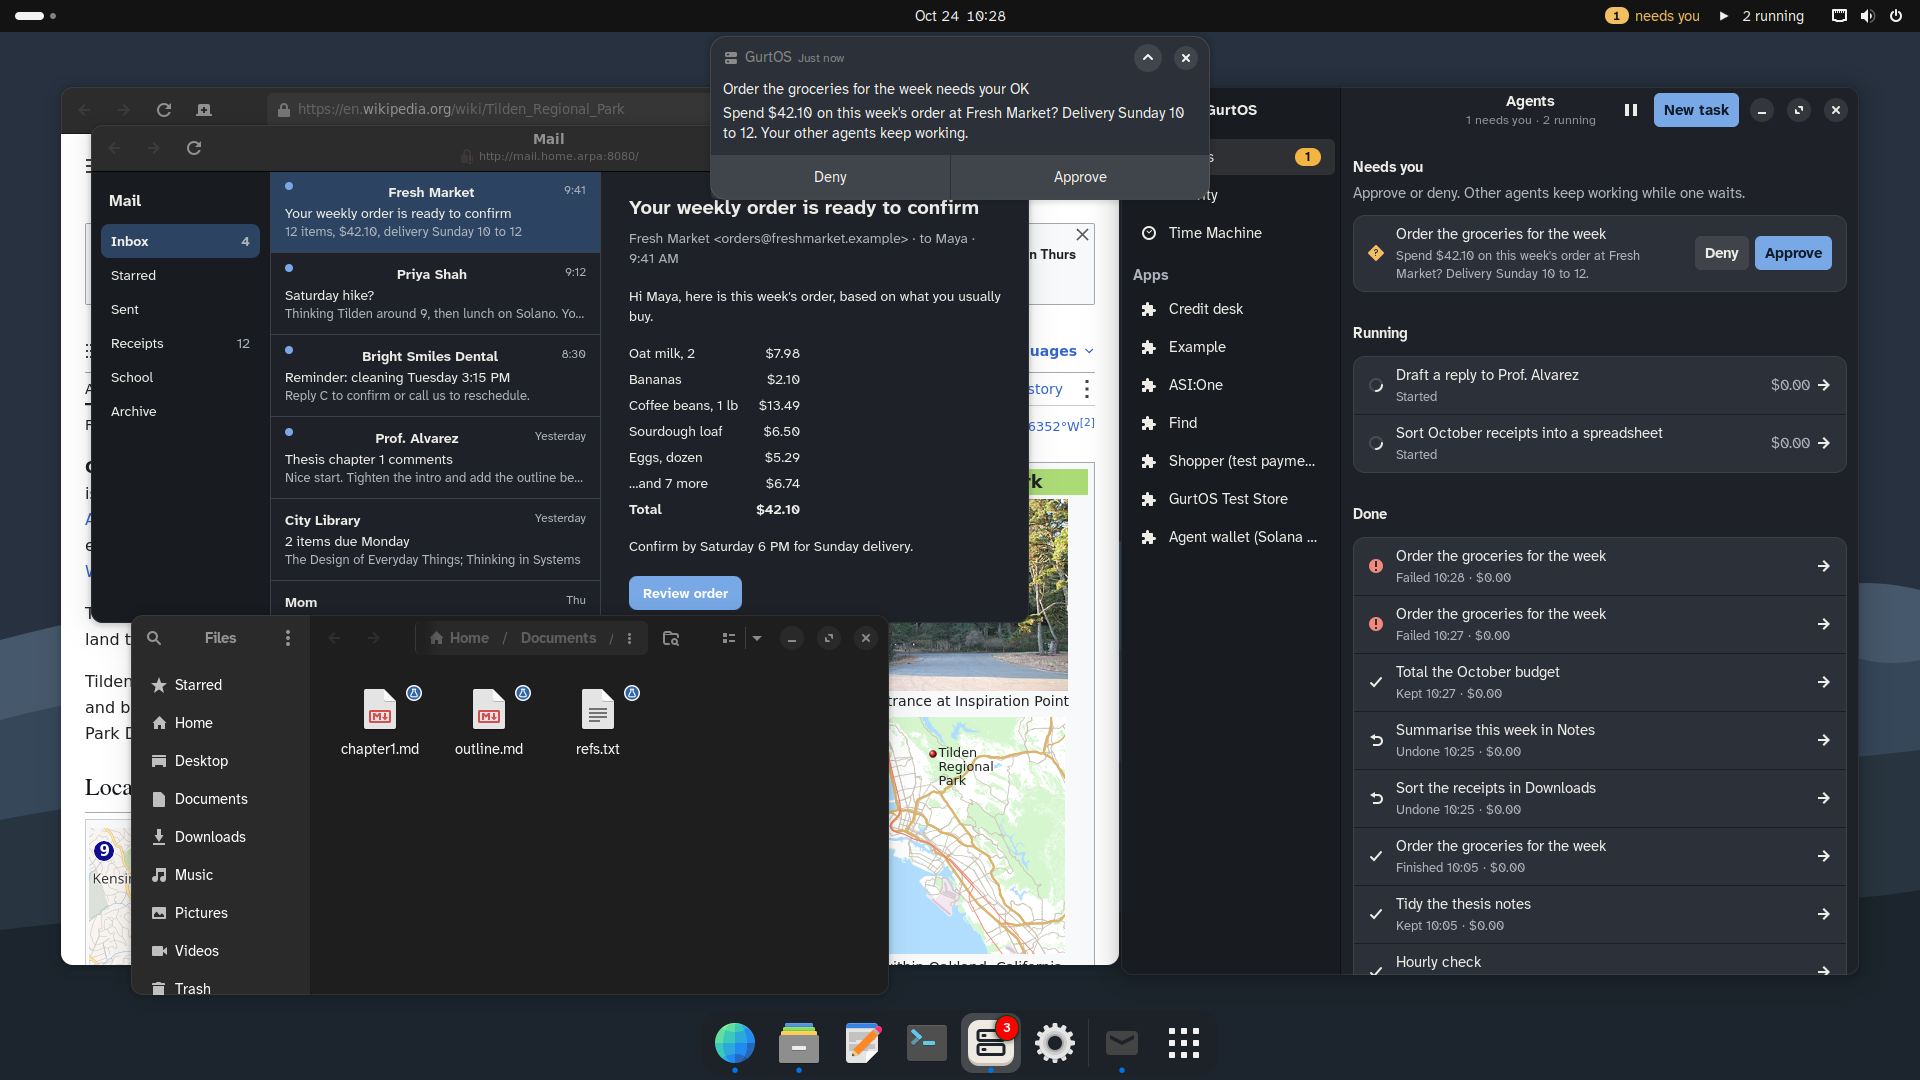
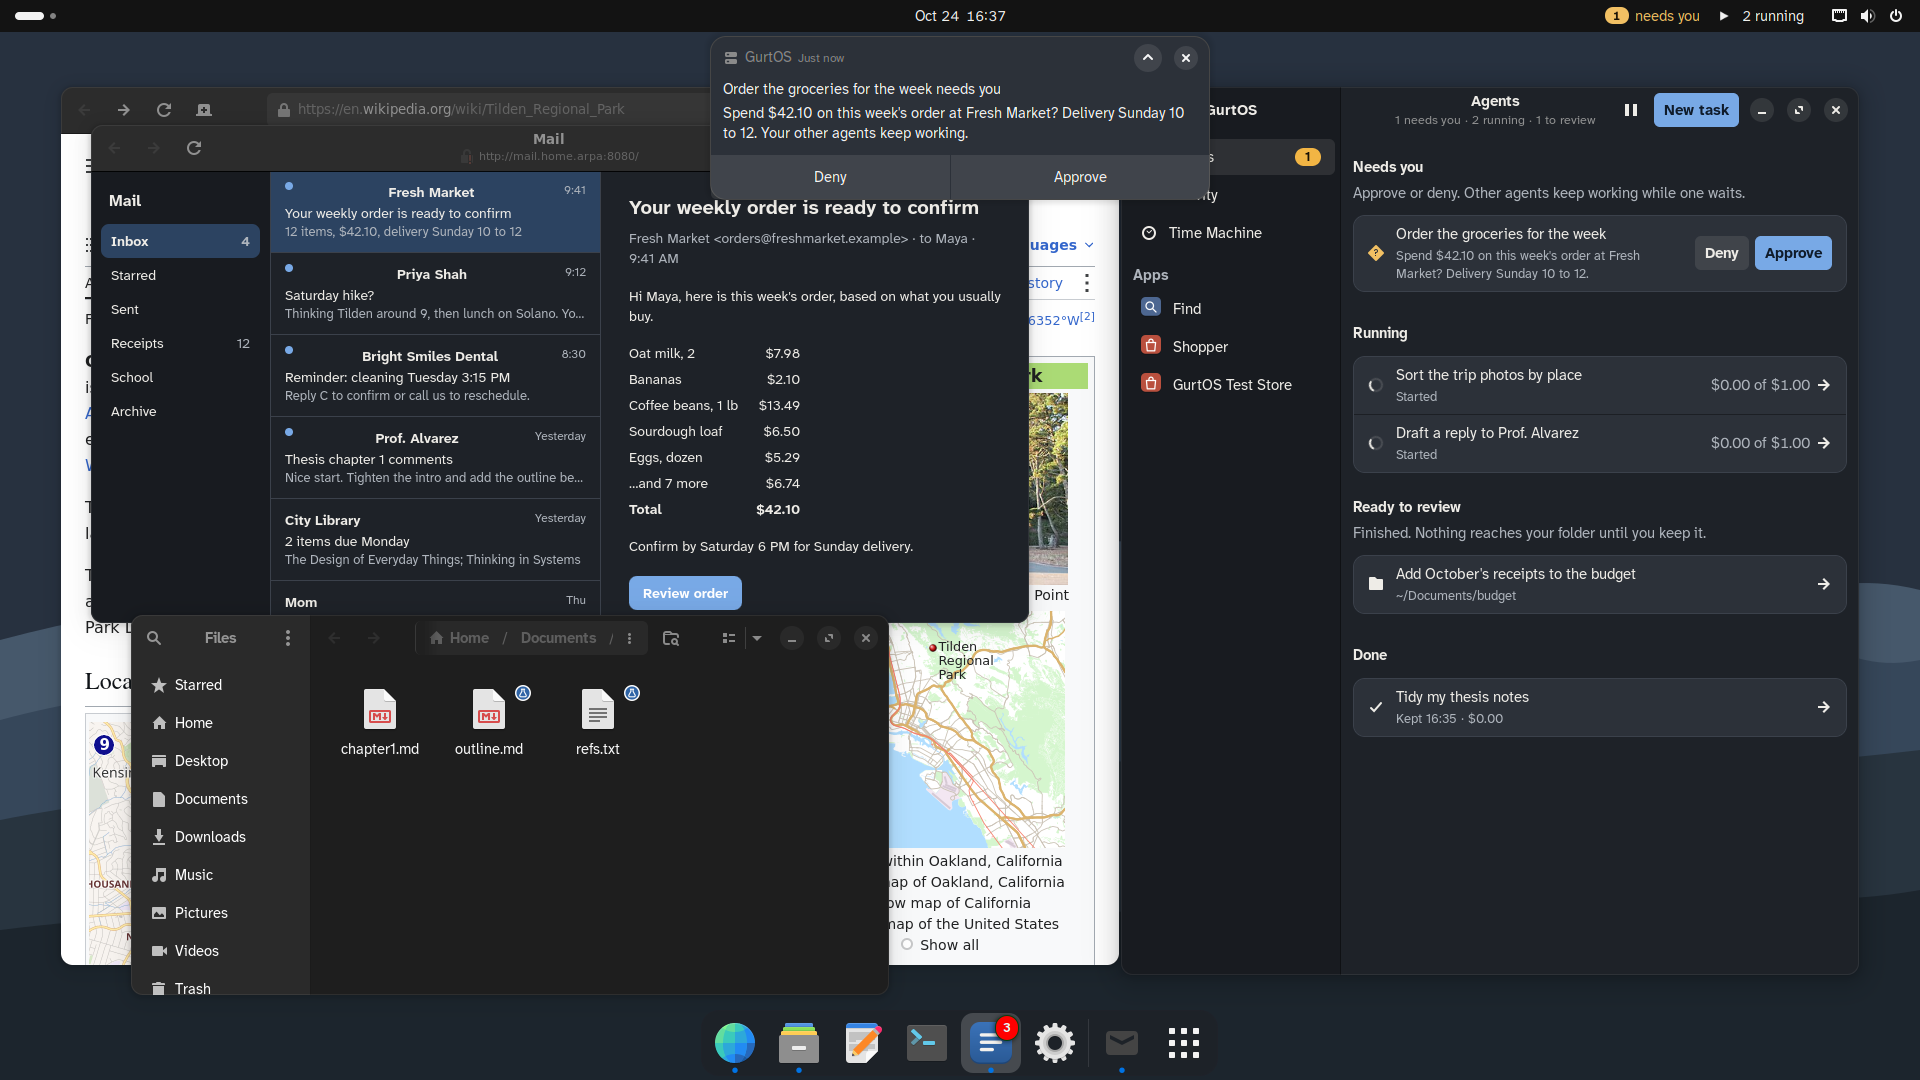
Personal: site screenshots retaken after the UX fixes (everyday, request, popover, review, Files menu)

diff --git a/personal/README.md b/personal/README.md
@@ -326,3 +326,11 @@ screens (people, rules, routed approvals, the audit trail) in the browser for no
 - Plain zeros (P-29, Ben's call): Atkinson Hyperlegible Next draws 0 with a slash and has no plain alternate, so
   `fonts/plain_zero.py` redraws it: the two half-counters become one oval counter at every weight, and the tabular
   zero follows. The font is OFL with no reserved name, so it keeps its name; Mono, used for code, keeps the slash.
+
+## Screenshots for the sites (Oct 24, after the UX fixes)
+
+Taken on the Personal test VM from main, at 1920x1080, with invented demo data (a local demo inbox, never real mail):
+`screenshots/os/everyday.png` and `everyday-dark.png` (mail, a browser and Files with the GurtOS app, the top-bar pill
+and a request banner), and in `screenshots/site/`: `approval.png` (a request banner and Needs you), `indicator.png` (the
+top-bar popover), `review.png` (a finished task with Keep changes and Undo task) and `files-menu.png` (Files' menu on a
+folder with changes waiting). They replace the site copies made from the older `setup/` and `install/` shots.
